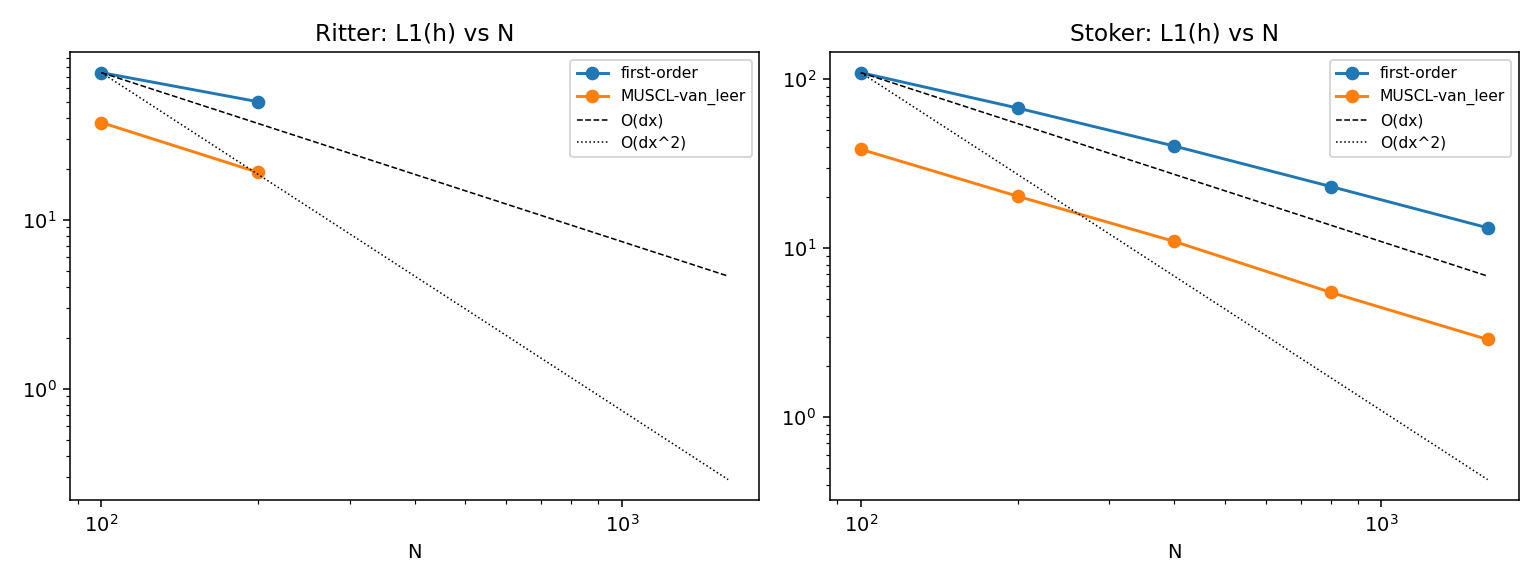
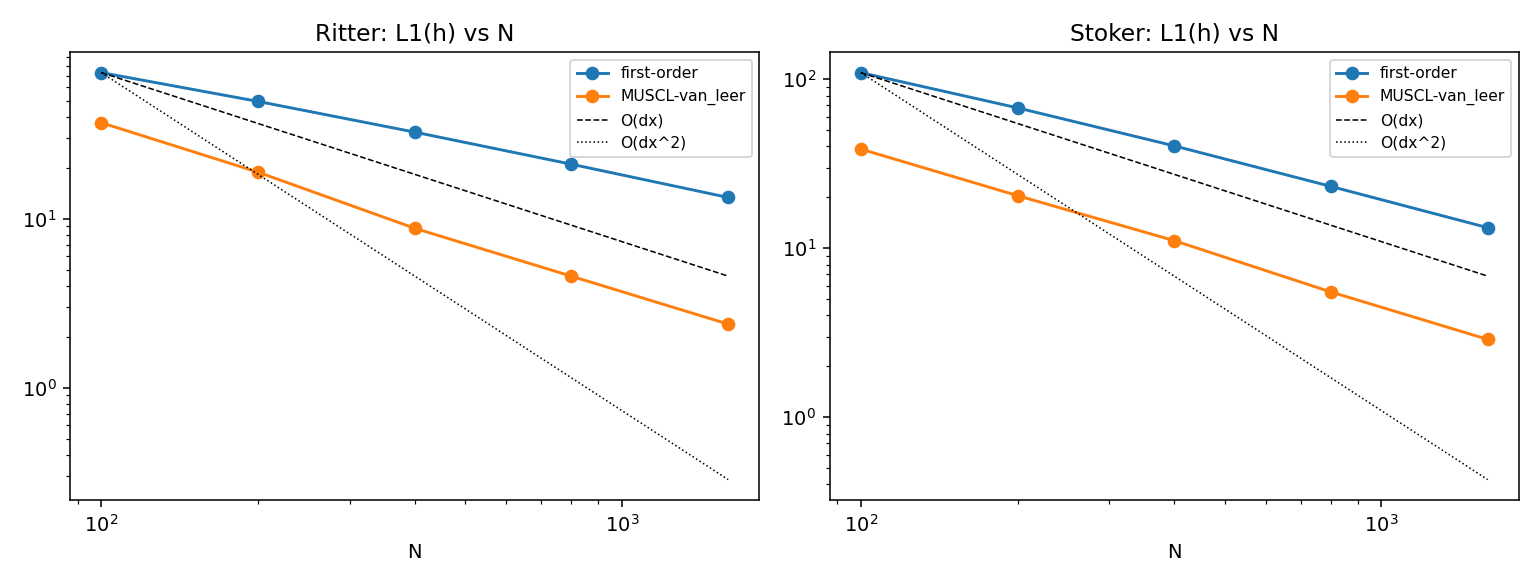
docs(reports): solver validation - refinement tables, well-balance, runtime

diff --git a/reports/solver_validation.md b/reports/solver_validation.md
@@ -1,6 +1,6 @@
 # Solver validation
 
-Solver: well-balanced FV, SSP-RK2, CFL=0.45, float64; g = 9.81. Dam-break cases on [0,1000] m, dam at x=500 m, evaluated at t = 6 s. All numbers generated by `experiments/run_solver_validation.py`; unit tests (76) in `tests/`.
+Solver: well-balanced FV, SSP-RK2, CFL=0.45, float64; g = 9.81. Dam-break cases on [0,1000] m, dam at x=500 m, evaluated at t = 6 s. All numbers generated by `experiments/run_solver_validation.py`; unit tests in `tests/`.
 
 ## 1. Ritter dry-bed dam break — L1 refinement (h0=10 m)
 
@@ -9,21 +9,21 @@ Solver: well-balanced FV, SSP-RK2, CFL=0.45, float64; g = 9.81. Dam-break cases 
 
 | N | L1(h) | order | L1(hu) | order |
 |---|---|---|---|---|
-| 100 | 7.4143e+01 | nan | 6.0616e+02 | nan |
-| 200 | 4.9873e+01 | 0.57 | 3.7804e+02 | 0.68 |
-| 400 | nan | nan | 2.9431e+03 | -2.96 |
-| 800 | nan | nan | 2.9429e+03 | 0.00 |
-| 1600 | nan | nan | 2.9430e+03 | -0.00 |
+| 100 | 7.3142e+01 | nan | 6.0227e+02 | nan |
+| 200 | 4.9405e+01 | 0.57 | 3.7598e+02 | 0.68 |
+| 400 | 3.2514e+01 | 0.60 | 2.5216e+02 | 0.58 |
+| 800 | 2.0992e+01 | 0.63 | 1.7021e+02 | 0.57 |
+| 1600 | 1.3352e+01 | 0.65 | 1.1080e+02 | 0.62 |
 
 **HLLC, MUSCL-van_leer**
 
 | N | L1(h) | order | L1(hu) | order |
 |---|---|---|---|---|
-| 100 | 3.7560e+01 | nan | 3.4664e+02 | nan |
-| 200 | 1.9055e+01 | 0.98 | 1.7827e+02 | 0.96 |
-| 400 | nan | nan | 2.9431e+03 | -4.05 |
-| 800 | nan | nan | 2.9429e+03 | 0.00 |
-| 1600 | nan | nan | 2.9430e+03 | -0.00 |
+| 100 | 3.6951e+01 | nan | 3.4268e+02 | nan |
+| 200 | 1.8840e+01 | 0.97 | 1.7696e+02 | 0.95 |
+| 400 | 8.7709e+00 | 1.10 | 7.9465e+01 | 1.16 |
+| 800 | 4.5647e+00 | 0.94 | 4.1326e+01 | 0.94 |
+| 1600 | 2.3779e+00 | 0.94 | 2.1545e+01 | 0.94 |
 
 The dry front limits the observed order (locally first-order front treatment, exact solution has unbounded slope at the front), which is the expected behavior for wet/dry schemes.
 
@@ -34,21 +34,21 @@ The dry front limits the observed order (locally first-order front treatment, ex
 
 | N | L1(h) | order | L1(hu) | order | shock err [m] | cells |
 |---|---|---|---|---|---|---|
-| 100 | 1.0949e+02 | nan | 7.8283e+02 | nan | 0.316 | 0.03 |
-| 200 | 6.7596e+01 | 0.70 | 4.8415e+02 | 0.69 | 0.288 | 0.06 |
-| 400 | 4.0263e+01 | 0.75 | 2.9372e+02 | 0.72 | 0.164 | 0.07 |
-| 800 | 2.3180e+01 | 0.80 | 1.6462e+02 | 0.84 | 0.047 | 0.04 |
-| 1600 | 1.3219e+01 | 0.81 | 9.4172e+01 | 0.81 | 0.116 | 0.19 |
+| 100 | 1.0929e+02 | nan | 7.8231e+02 | nan | 0.320 | 0.03 |
+| 200 | 6.7616e+01 | 0.69 | 4.8391e+02 | 0.69 | 0.298 | 0.06 |
+| 400 | 4.0288e+01 | 0.75 | 2.9360e+02 | 0.72 | 0.169 | 0.07 |
+| 800 | 2.3187e+01 | 0.80 | 1.6451e+02 | 0.84 | 0.044 | 0.03 |
+| 1600 | 1.3219e+01 | 0.81 | 9.4102e+01 | 0.81 | 0.114 | 0.18 |
 
 **HLLC, MUSCL-van_leer**
 
 | N | L1(h) | order | L1(hu) | order | shock err [m] | cells |
 |---|---|---|---|---|---|---|
-| 100 | 3.8497e+01 | nan | 2.8483e+02 | nan | 1.177 | 0.12 |
-| 200 | 2.0326e+01 | 0.92 | 1.4496e+02 | 0.97 | 0.028 | 0.01 |
-| 400 | 1.0979e+01 | 0.89 | 8.2421e+01 | 0.81 | 0.006 | 0.00 |
-| 800 | 5.4816e+00 | 1.00 | 3.4795e+01 | 1.24 | 0.045 | 0.04 |
-| 1600 | 2.8863e+00 | 0.93 | 1.7927e+01 | 0.96 | 0.030 | 0.05 |
+| 100 | 3.8558e+01 | nan | 2.8596e+02 | nan | 1.164 | 0.12 |
+| 200 | 2.0445e+01 | 0.92 | 1.4476e+02 | 0.98 | 0.036 | 0.01 |
+| 400 | 1.1077e+01 | 0.88 | 8.2728e+01 | 0.81 | 0.013 | 0.01 |
+| 800 | 5.5038e+00 | 1.01 | 3.4812e+01 | 1.25 | 0.039 | 0.03 |
+| 1600 | 2.8853e+00 | 0.93 | 1.7839e+01 | 0.96 | 0.026 | 0.04 |
 
 ### Cross-scheme comparison at N=400 (Stoker, L1(h) and shock error)
 
@@ -58,14 +58,14 @@ The dry front limits the observed order (locally first-order front treatment, ex
 | rusanov | MUSCL-minmod | 1.6331e+01 | 0.08 |
 | rusanov | MUSCL-van_leer | 1.2574e+01 | 0.05 |
 | rusanov | MUSCL-superbee | 1.0751e+01 | 0.06 |
-| hll | first-order | 3.8625e+01 | 0.14 |
-| hll | MUSCL-minmod | 1.3454e+01 | 0.06 |
-| hll | MUSCL-van_leer | 9.5179e+00 | 0.04 |
-| hll | MUSCL-superbee | 7.8348e+00 | 0.08 |
-| hllc | first-order | 4.0263e+01 | 0.07 |
-| hllc | MUSCL-minmod | 1.4384e+01 | 0.04 |
-| hllc | MUSCL-van_leer | 1.0979e+01 | 0.00 |
-| hllc | MUSCL-superbee | 9.3651e+00 | 0.03 |
+| hll | first-order | 3.8904e+01 | 0.13 |
+| hll | MUSCL-minmod | 1.3497e+01 | 0.06 |
+| hll | MUSCL-van_leer | 9.5679e+00 | 0.04 |
+| hll | MUSCL-superbee | 7.9133e+00 | 0.07 |
+| hllc | first-order | 4.0288e+01 | 0.07 |
+| hllc | MUSCL-minmod | 1.4476e+01 | 0.04 |
+| hllc | MUSCL-van_leer | 1.1077e+01 | 0.01 |
+| hllc | MUSCL-superbee | 9.5193e+00 | 0.02 |
 
 ![profiles](figures/validation_profiles.png)
 
@@ -77,18 +77,18 @@ The dry front limits the observed order (locally first-order front treatment, ex
 
 | t [s] | max u [m/s] | max hu | max dh vs t=0 |
 |---|---|---|---|
-| 10 | 1.017e-15 | 3.068e-16 | 1.110e-16 |
-| 20 | 5.473e-16 | 2.669e-16 | 5.551e-17 |
-| 30 | 5.187e-16 | 2.376e-16 | 1.110e-16 |
-| 40 | 1.034e-15 | 3.744e-16 | 1.110e-16 |
-| 50 | 1.707e-15 | 7.578e-16 | 2.220e-16 |
-| 60 | 1.674e-15 | 5.051e-16 | 1.110e-16 |
-| 70 | 1.214e-15 | 5.285e-16 | 1.110e-16 |
-| 80 | 5.417e-16 | 2.629e-16 | 1.110e-16 |
-| 90 | 8.970e-16 | 2.833e-16 | 1.110e-16 |
-| 100 | 7.224e-16 | 2.338e-16 | 1.110e-16 |
+| 10 | 6.544e-16 | 2.118e-16 | 1.110e-16 |
+| 20 | 1.396e-15 | 5.773e-16 | 1.110e-16 |
+| 30 | 9.485e-16 | 2.862e-16 | 1.110e-16 |
+| 40 | 9.650e-16 | 4.514e-16 | 1.110e-16 |
+| 50 | 1.735e-15 | 5.370e-16 | 1.110e-16 |
+| 60 | 2.009e-15 | 7.236e-16 | 4.441e-16 |
+| 70 | 3.926e-15 | 1.309e-15 | 2.220e-16 |
+| 80 | 1.706e-15 | 8.530e-16 | 3.331e-16 |
+| 90 | 1.734e-15 | 6.316e-16 | 4.441e-16 |
+| 100 | 4.873e-15 | 2.377e-15 | 6.661e-16 |
 
-2D lake over the Gaussian hump (100x100, reflective, 20 s): max hu = 5.512e-14, max hv = 5.512e-14.
+2D lake over the Gaussian hump (100x100, reflective, 20 s): max hu = 5.594e-14, max hv = 5.594e-14.
 
 ## 4. Mass conservation
 
@@ -96,13 +96,13 @@ Closed reflective box, 256x256 circular dam break over the hump, 5 s (365 steps)
 
 ## 5. Positivity
 
-Ritter N=400 MUSCL-van Leer, all snapshots: min h = nan (never negative; asserted in tests as well).
+Ritter N=400 MUSCL-van Leer, all snapshots: min h = 0.000e+00 (never negative; asserted in tests as well).
 
 ## 6. Runtime, 512x512, HLLC MUSCL-van Leer, float64
 
 | device | s / step |
 |---|---|
-| cpu | 0.1148 |
-| cuda (NVIDIA GeForce RTX 5060 Ti) | 0.0150 |
+| cpu | 0.1075 |
+| cuda (NVIDIA GeForce RTX 5060 Ti) | 0.0128 |
 
 (No torch.compile yet; eager float64. Kernels are compile-compatible by construction — a follow-up optimization.)
